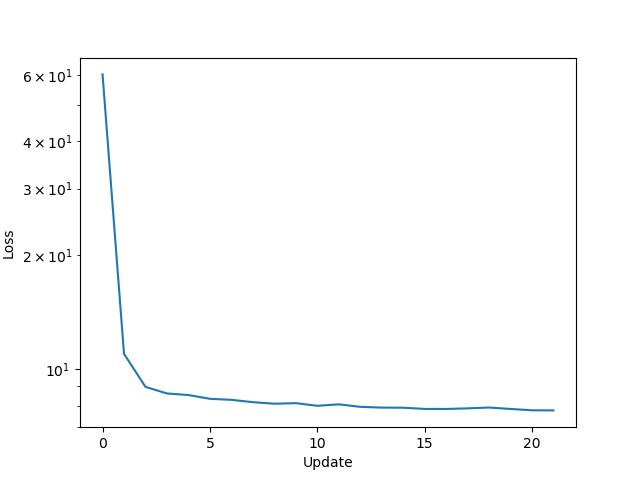
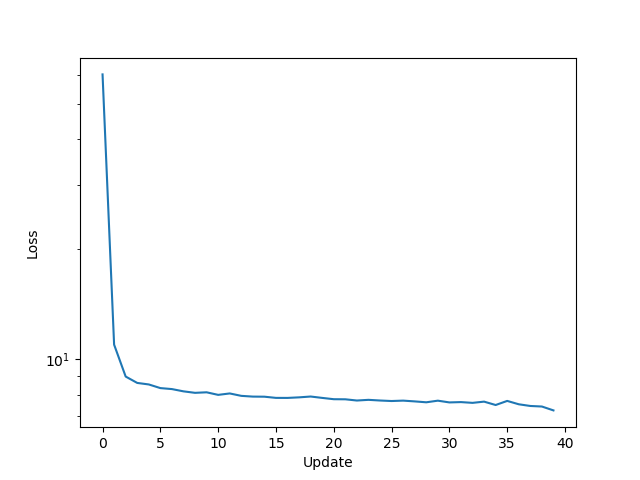
changed self attention to use pytorch features

diff --git a/qanet/self_attention.py b/qanet/self_attention.py
@@ -1,53 +1,58 @@
 # -*- coding: utf-8 -*-
 
 import torch
-import math
+import numpy as np
 import torch.nn as nn
 import torch.nn.functional as F
+from torch.autograd import Variable
 
 # Multi-head attention mechanism as defined in Vaswani et al. 2017
 class SelfAttention(nn.Module):
-    def __init__(self, batch_size, n_heads, n_filters):
+    def __init__(self, batch_size=8, n_heads=8, n_filters=128):
         super().__init__()
         self.batch_size = batch_size
-        self.dimension_contexts = n_filters // n_heads
-        self.dimension_values = n_filters // n_heads
         self.n_filters = n_filters
         self.n_heads = n_heads
+        self.key_dim = n_filters // n_heads
+        self.value_dim = n_filters // n_heads
         
-
-        
-        self.weights_queries = [torch.zeros(batch_size, self.dimension_contexts, n_filters).cuda() for _ in range(n_heads)]
-        self.weights_contexts = [torch.zeros(batch_size, self.dimension_contexts, n_filters).cuda() for _ in range(n_heads)]
-        self.weights_values = [torch.zeros(batch_size, self.dimension_values, n_filters).cuda() for _ in range(n_heads)]
-        self.weights_output = torch.zeros(batch_size, self.dimension_values * n_heads, n_filters).cuda()
-        
-        nn.init.xavier_normal(self.weights_output)
-        for i in range(n_heads):
-            nn.init.xavier_normal(self.weights_queries[i])
-            nn.init.xavier_normal(self.weights_contexts[i])
-            nn.init.xavier_normal(self.weights_values[i])
+        self.fc_query = nn.ModuleList([nn.Linear(n_filters, self.key_dim) for i in range(n_heads)])
+        self.fc_key = nn.ModuleList([nn.Linear(n_filters, self.key_dim) for i in range(n_heads)])
+        self.fc_value = nn.ModuleList([nn.Linear(n_filters, self.value_dim) for i in range(n_heads)])
+        self.fc_out = nn.Linear(n_heads * self.value_dim, n_filters)
             
-            
-    def forward(self, inputs):
-        assert inputs.size()[1] == self.n_filters
-        array_weights_queries = []
-        array_weights_contexts = []
-        array_weights_values = []
+    def forward(self, x):
+        
+        l = x.shape[1]
+        
+        heads = Variable(torch.zeros(self.n_heads, self.batch_size, l, self.value_dim))
 
         for i in range(self.n_heads):
-            array_weights_queries.append(torch.bmm(self.weights_queries[i], inputs.data))
-            array_weights_contexts.append(torch.bmm(self.weights_contexts[i], inputs.data))
-            array_weights_values.append(torch.bmm(self.weights_values[i], inputs.data))
-        heads = []
-        for i in range(self.n_heads):
-            outputs = torch.bmm(array_weights_queries[i].transpose(1, 2), array_weights_contexts[i])
-            outputs = torch.div(outputs, math.sqrt(self.dimension_contexts))
-            outputs = F.softmax(outputs, dim=1)
-            headi = torch.bmm(array_weights_values[i], outputs.data)
-            heads.append(headi)
-        head = torch.cat(heads, dim=1)
-        outputs = torch.bmm(self.weights_output, head)
-        return outputs          
+            Q = self.fc_query[i](x)
+            K = self.fc_key[i](x)
+            V = self.fc_value[i](x)
+            
+            # scaled dot-product attention
+            tmp = torch.bmm(Q.permute(0, 2, 1), K)
+            tmp = tmp / np.sqrt(self.key_dim)
+            tmp = F.softmax(tmp, dim=1)
+            
+            heads[i] = torch.bmm(V, tmp)
+
+        # concatenation is the same as reshaping our tensor
+        x = heads.view(self.batch_size, l, -1)
+        x = self.fc_out(x)
+        return x      
         
-        
+if __name__ == "__main__":
+
+    batch_size = 8
+    l = 60
+    n_filters = 128
+    
+    mdl = SelfAttention()
+    
+    x = torch.ones(batch_size, l, n_filters)
+    x = Variable(x)
+    
+    print(mdl(x))

diff --git a/qanet/qanet.py b/qanet/qanet.py
@@ -37,6 +37,7 @@ class QANet(nn.Module):
         self.embed_encoder_kernel_size = params["embed_encoder_kernel_size"]
         self.embed_encoder_pad = params["embed_encoder_pad"]
         self.embed_encoder_conv_type = params["embed_encoder_conv_type"]
+        self.embed_encoder_with_self_attn = params["embed_encoder_with_self_attn"]
         self.embed_encoder_n_heads = params["embed_encoder_n_heads"]
 
         self.model_encoder_n_blocks = params["model_encoder_n_blocks"]
@@ -44,6 +45,7 @@ class QANet(nn.Module):
         self.model_encoder_kernel_size = params["model_encoder_n_blocks"]
         self.model_encoder_pad = params["model_encoder_pad"]
         self.model_encoder_conv_type = params["model_encoder_conv_type"]
+        self.model_encoder_with_self_attn = params["model_encoder_with_self_attn"]
         self.model_encoder_n_heads = params["model_encoder_n_heads"]
 
         # Initializing model layers
@@ -66,6 +68,7 @@ class QANet(nn.Module):
                                                  kernel_size=self.embed_encoder_kernel_size,
                                                  padding=self.embed_encoder_pad,
                                                  conv_type=self.embed_encoder_conv_type,
+                                                 with_self_attn=self.embed_encoder_with_self_attn,
                                                  n_heads=self.embed_encoder_n_heads,
                                                  batch_size=self.batch_size)
 
@@ -77,7 +80,9 @@ class QANet(nn.Module):
                                          padding=self.model_encoder_pad,
                                          hidden_size=4*self.hidden_size,
                                          conv_type=self.model_encoder_conv_type,
-                                         n_heads=self.model_encoder_n_heads)
+                                         with_self_attn=self.model_encoder_with_self_attn,
+                                         n_heads=self.model_encoder_n_heads,
+                                         batch_size=self.batch_size)
         
         self.output = Output(input_dim=4*self.hidden_size)
 

diff --git a/qanet/encoder_block.py b/qanet/encoder_block.py
@@ -13,11 +13,12 @@ from qanet.depthwise_separable_conv import DepthwiseSeparableConv1d
 class EncoderBlock(nn.Module):
     
     def __init__(self, n_conv, kernel_size=7, padding=3, n_filters=128, n_heads=8,
-                 conv_type='depthwise_separable', batch_size=32):
+                 conv_type='depthwise_separable', with_self_attn='True', batch_size=32):
         super(EncoderBlock, self).__init__()
 
         self.n_conv = n_conv        
         self.n_filters = n_filters
+        self.with_self_attn = with_self_attn
         
         self.positionEncoding = PositionEncoding(n_filters=n_filters)
         self.layerNorm = LayerNorm1d(n_features=n_filters)
@@ -30,7 +31,8 @@ class EncoderBlock(nn.Module):
             self.conv = nn.ModuleList([DepthwiseSeparableConv1d(n_filters=n_filters,
                                                                 kernel_size=kernel_size,
                                                                 padding=padding) for i in range(n_conv)])
-        self.selfAttention = SelfAttention(batch_size, n_heads, n_filters)
+        if with_self_attn:
+            self.selfAttention = SelfAttention(batch_size, n_heads, n_filters)
         self.fc = nn.Linear(in_features=n_filters, out_features=n_filters)
         
     def forward(self, x):
@@ -42,12 +44,16 @@ class EncoderBlock(nn.Module):
             tmp = self.layerNorm(x)
             tmp = F.relu(self.conv[i](tmp))
             x = tmp + x
-    
+            
         # self attention
-        # tmp = self.layerNorm(x)
-        # tmp = self.selfAttention(x)
-        # x = tmp + x
-        
+        if self.with_self_attn:
+            
+            tmp = self.layerNorm(x)
+            tmp = tmp.permute(0, 2, 1)
+            tmp = self.selfAttention(tmp)
+            tmp = tmp.permute(0, 2, 1)
+            x = tmp + x
+
         # fully connected layer
         tmp = self.layerNorm(x)
         

diff --git a/qanet/model_encoder.py b/qanet/model_encoder.py
@@ -7,7 +7,8 @@ from qanet.encoder_block import EncoderBlock
 class ModelEncoder(nn.Module):
     
     def __init__(self, n_blocks=7, n_conv=2, kernel_size=7, padding=3,
-                 hidden_size=128, conv_type='depthwise_separable', n_heads=8):
+                 hidden_size=128, conv_type='depthwise_separable', 
+                 with_self_attn='True', n_heads=8, batch_size=8):
         super(ModelEncoder, self).__init__()
         
         self.n_blocks = n_blocks
@@ -17,7 +18,9 @@ class ModelEncoder(nn.Module):
                                                                 padding=padding,
                                                                 n_filters=hidden_size,
                                                                 conv_type=conv_type,
-                                                                n_heads=n_heads) for i in range(n_blocks)])
+                                                                with_self_attn=with_self_attn,
+                                                                n_heads=n_heads,
+                                                                batch_size=batch_size) for i in range(n_blocks)])
         
     def forward(self, x):
         

diff --git a/qanet/embedding_encoder.py b/qanet/embedding_encoder.py
@@ -7,7 +7,7 @@ class EmbeddingEncoder(nn.Module):
     
     def __init__(self, resize_in=500, hidden_size=128, resize_kernel=7, resize_pad=3,
                  n_blocks=1, n_conv=4, kernel_size=7, padding=3, 
-                 conv_type='depthwise_separable', n_heads=8, batch_size=32):
+                 conv_type='depthwise_separable', with_self_attn='True', n_heads=8, batch_size=32):
         super(EmbeddingEncoder, self).__init__()
         
         self.n_blocks = n_blocks
@@ -27,6 +27,7 @@ class EmbeddingEncoder(nn.Module):
                                                                 padding=padding,
                                                                 n_filters=hidden_size,
                                                                 conv_type=conv_type,
+                                                                with_self_attn=with_self_attn,
                                                                 n_heads=n_heads,
                                                                 batch_size=batch_size) for i in range(n_blocks)])
     

diff --git a/constants.py b/constants.py
@@ -9,4 +9,5 @@ START_VOCAB = [_UNK, _PAD]
 MAX_CONTEXT = 400
 
 import torch
-use_cuda = torch.cuda.is_available()
+#use_cuda = torch.cuda.is_available()
+use_cuda = False
